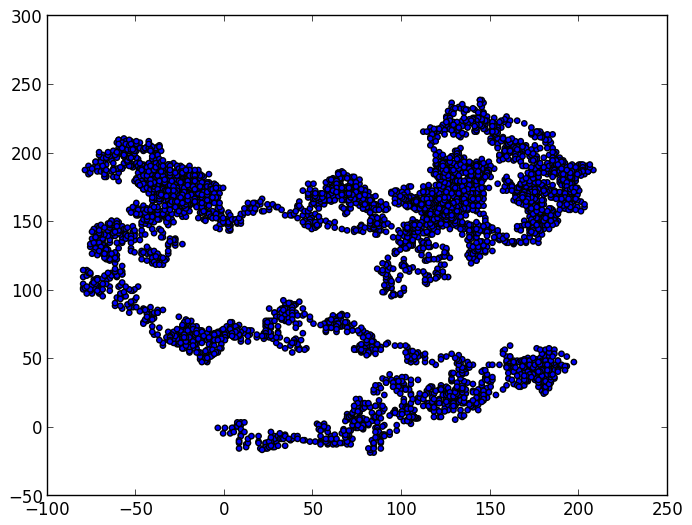
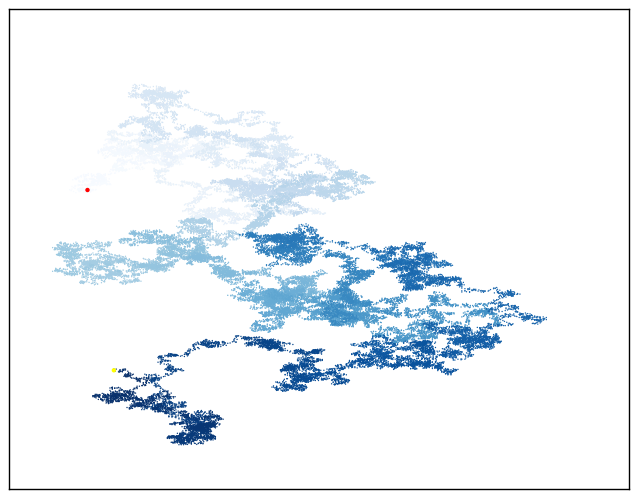
matplotlib

Changed region(s): [[0.0, 0.0, 1.0, 0.99]]

diff --git a/matplotlib/rw_visual.py b/matplotlib/rw_visual.py
@@ -3,14 +3,22 @@
 
 import matplotlib.pyplot as plt
 from random_walk import RandomWalk
-
+#只要程序处于活动状态，就不断的模拟随机漫步
 while True:
-      rw=RandomWalk()
+      rw=RandomWalk(50000)   #创建一个RandomWalk实例，将其包含的点都绘制出来
       rw.fill_walk()
-      plt.scatter(rw.x_values,rw.y_values,s=15)
-      #plt.savefig('rw_visual.png',bbox_inches='tight')
+
+      point_numbers=list(range(rw.num_points))
+      plt.scatter(rw.x_values,rw.y_values,c=point_numbers,cmap=plt.cm.Blues,edgecolor='none',s=1)
+
+      plt.scatter(0,0,c='red',edgecolor='none',s=10)  #起点
+      plt.scatter(rw.x_values[-1],rw.y_values[-1],c='yellow',edgecolor='none',s=10) #终点
+
+      plt.axes().get_xaxis().set_visible(False)
+      plt.axes().get_yaxis().set_visible(False)
+      plt.savefig('rw_visual.png',bbox_inches='tight')
       plt.show()
 
-      keep_running=raw_input("Make another walk? (y/n):")
+      keep_running=raw_input("Make another walk? (y/n):")   #input on python3
       if keep_running=='n':
       	break

diff --git a/matplotlib/random_walk.py b/matplotlib/random_walk.py
@@ -4,15 +4,15 @@
 from random import choice
 
 class RandomWalk():
-     def __init__(self,num_point=5000):      #一个生成随机漫步数据的类
-             self.num_point=num_point         #初始化随机漫步的属性
+     def __init__(self,num_points=5000):      #一个生成随机漫步数据的类
+             self.num_points=num_points         #初始化随机漫步的属性
              #所有随机漫步都始于(0,0)
              self.x_values=[0]
              self.y_values=[0]
      #计算随机漫步包含的所有点
      def fill_walk(self):
      	       #不断漫步，直到列表到达指定的长度
-     	       while len(self.x_values)<self.num_point:
+     	       while len(self.x_values)<self.num_points:
                  #决定前进方向以及前进的距离
      	       	x_direction=choice([-1,1])
      	       	x_distance=choice([0,1,2,3,4])
